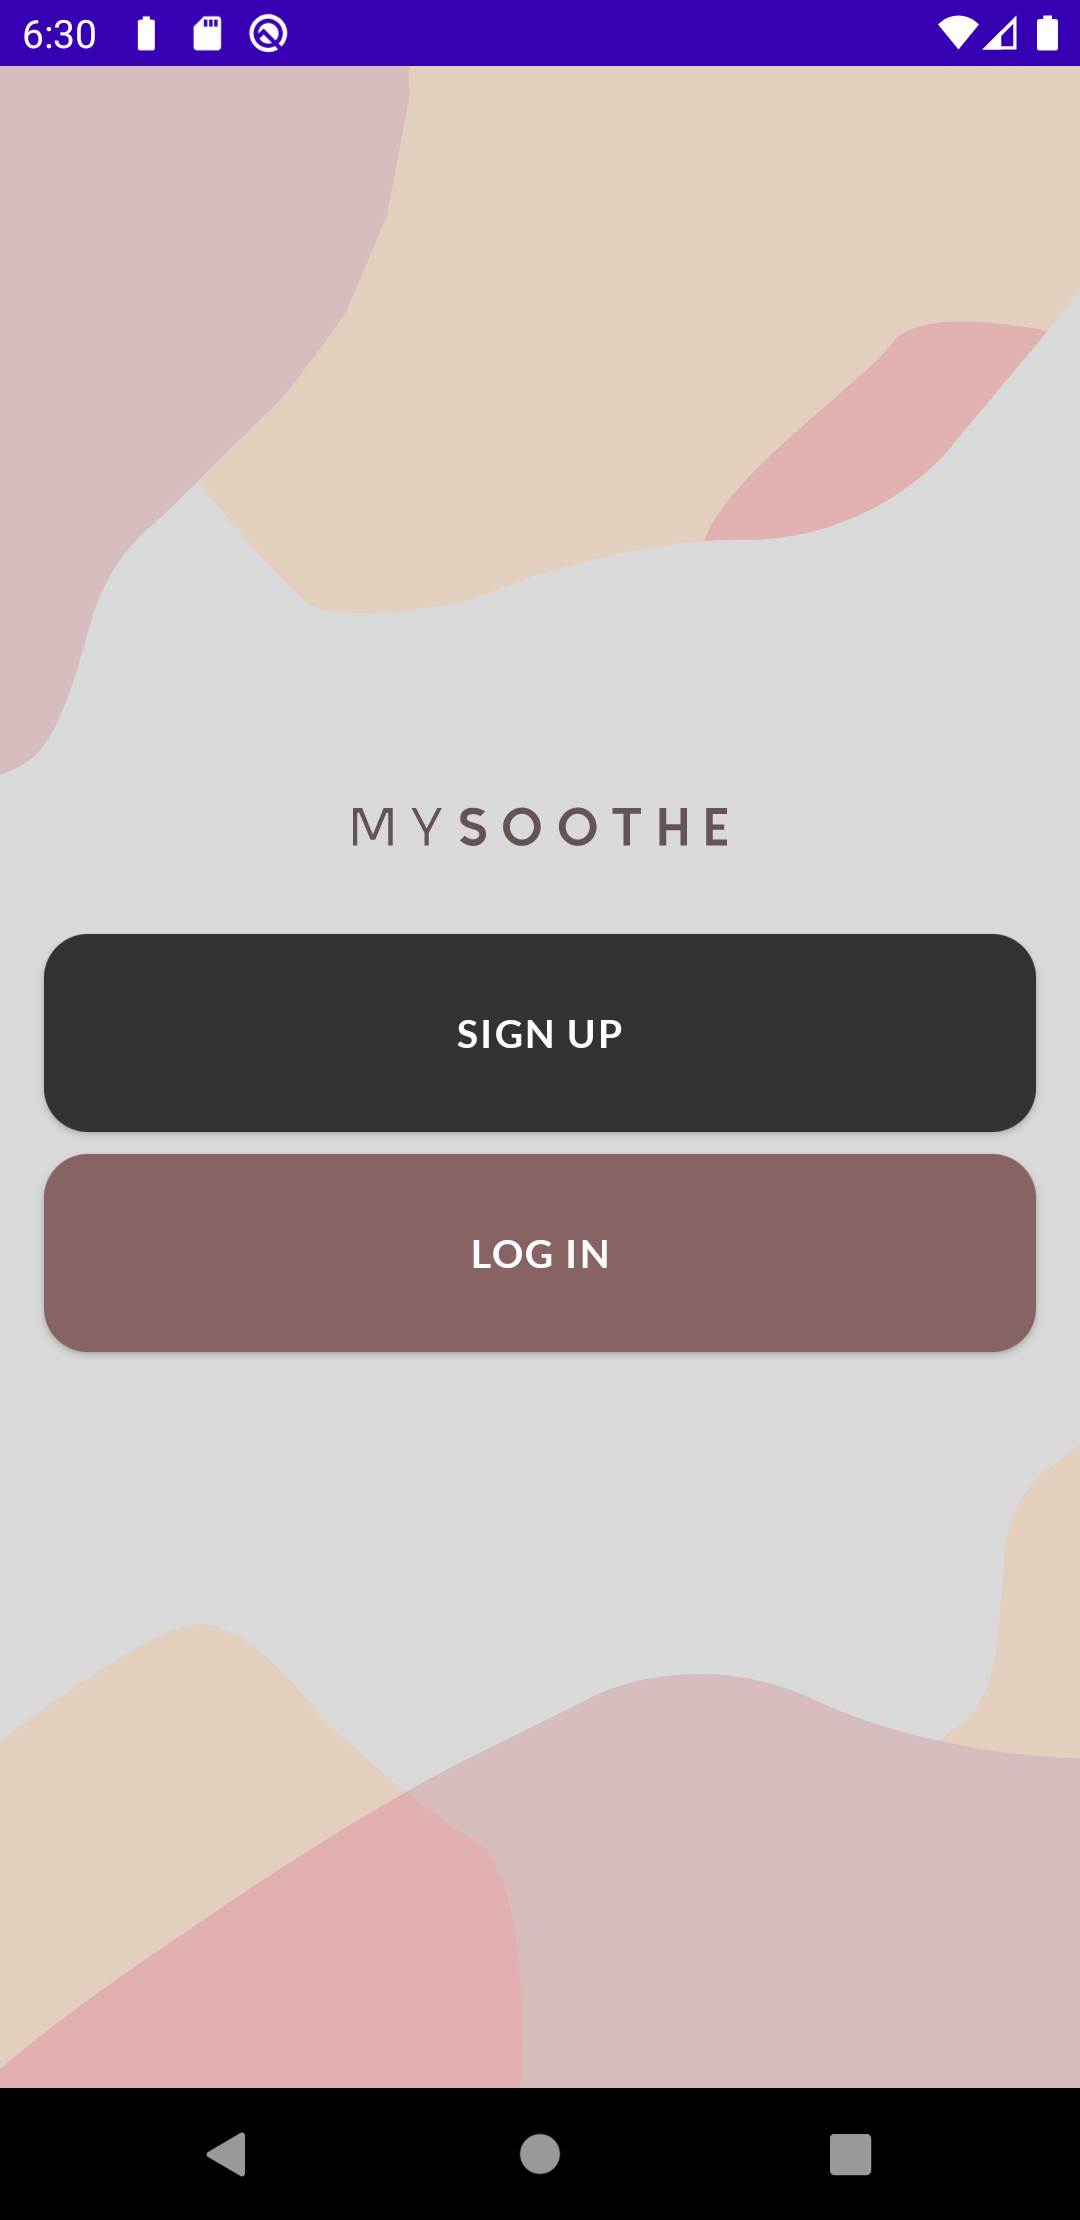
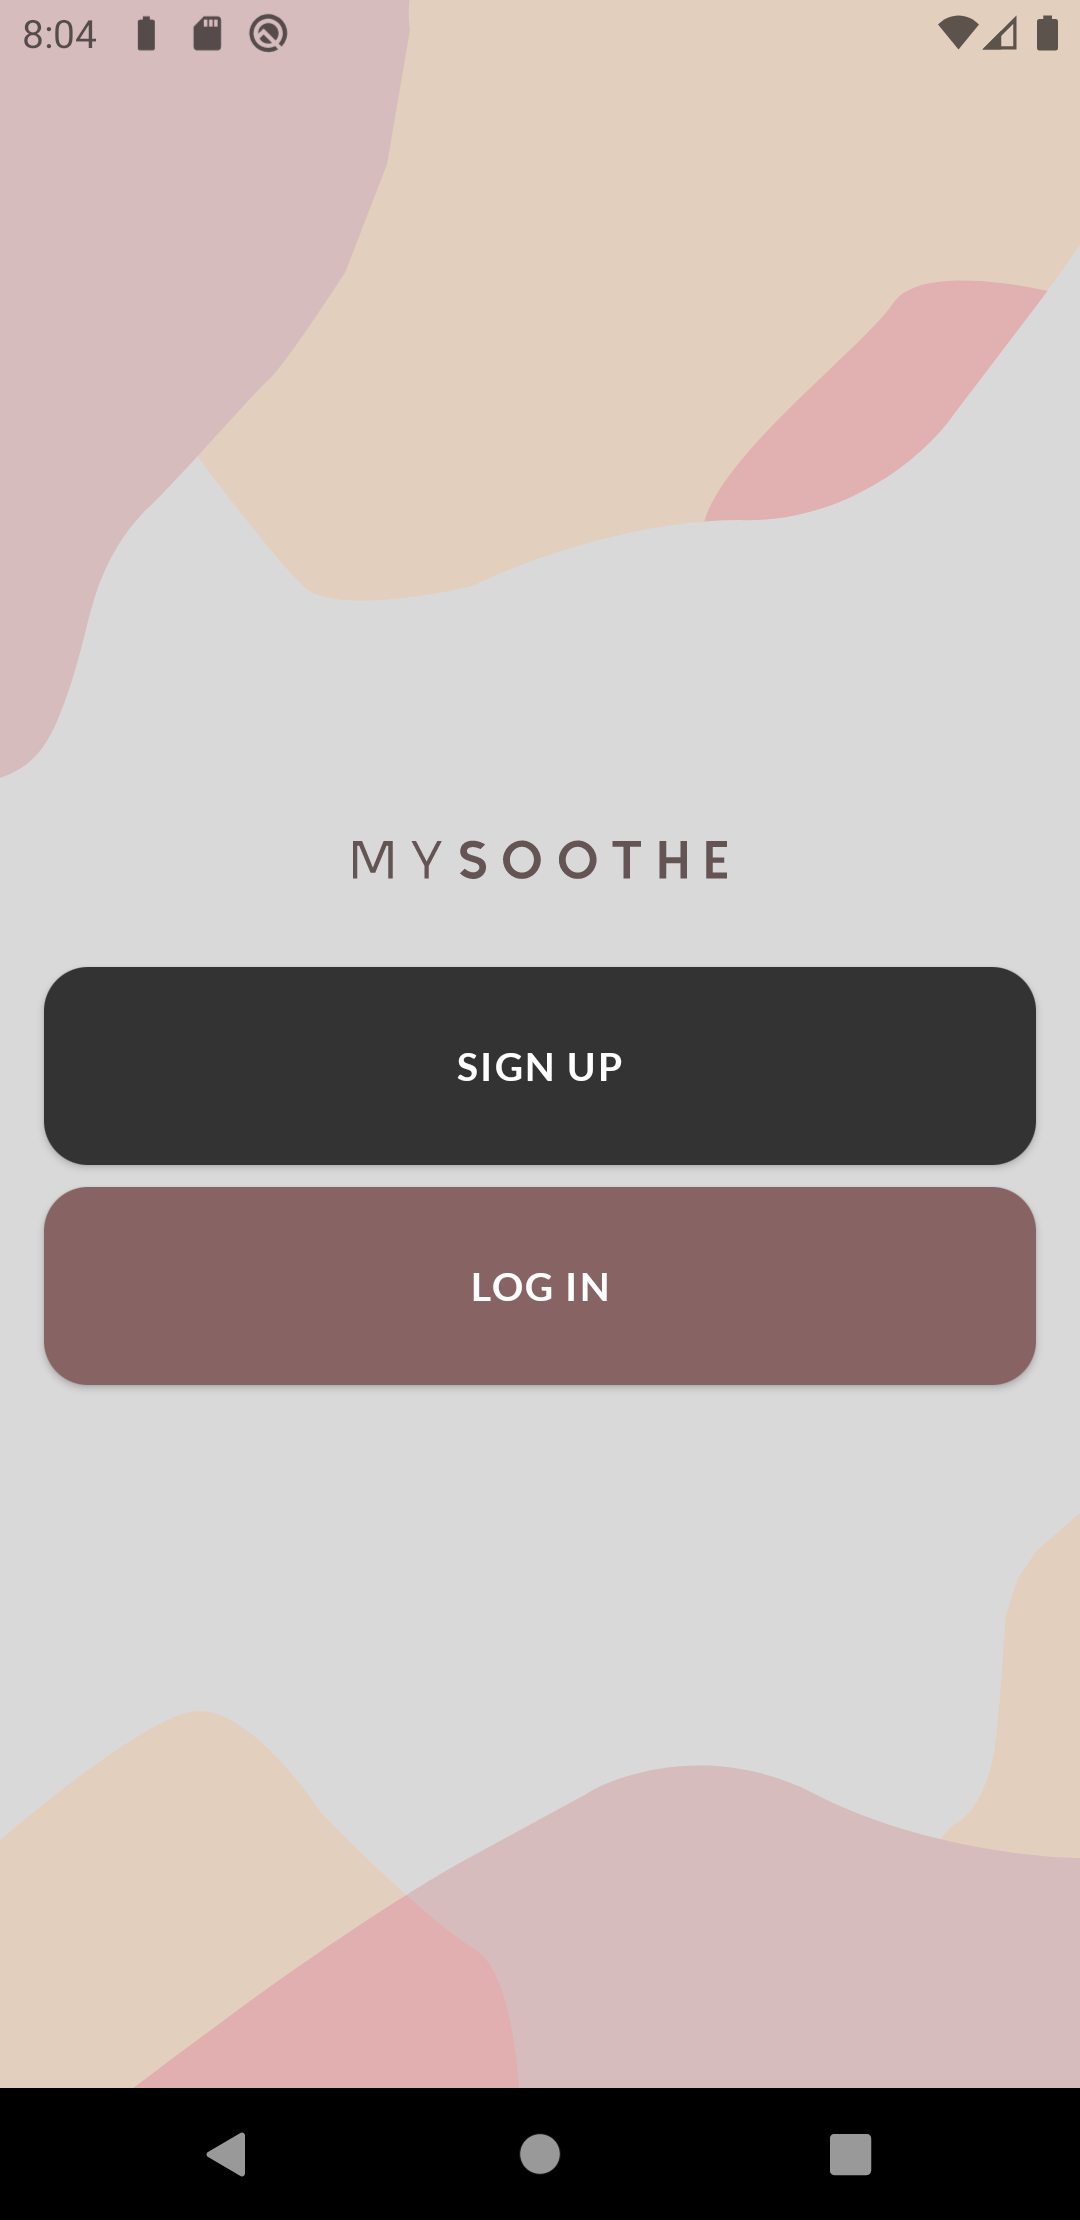
Challenge #3

diff --git a/app/src/main/java/com/example/androiddevchallenge/MainActivity.kt b/app/src/main/java/com/example/androiddevchallenge/MainActivity.kt
@@ -24,12 +24,20 @@ import androidx.compose.material.Text
 import androidx.compose.runtime.Composable
 import androidx.compose.ui.graphics.Color
 import androidx.compose.ui.tooling.preview.Preview
+import androidx.core.view.WindowCompat
 import androidx.navigation.compose.rememberNavController
 import com.example.androiddevchallenge.ui.theme.MyTheme
 
 class MainActivity : AppCompatActivity() {
     override fun onCreate(savedInstanceState: Bundle?) {
         super.onCreate(savedInstanceState)
+        WindowCompat
+            .setDecorFitsSystemWindows(
+                window.apply {
+                    statusBarColor = getColor(android.R.color.transparent)
+                },
+                false
+            )
         setContent {
             val navController = rememberNavController()
             Surface(color = Color.Black) {

diff --git a/app/src/main/java/com/example/androiddevchallenge/screens/home/Home.kt b/app/src/main/java/com/example/androiddevchallenge/screens/home/Home.kt
@@ -106,7 +106,7 @@ fun search() {
     TextField(
         modifier = Modifier
             .fillMaxWidth()
-            .padding(16.dp, 28.dp, 16.dp, 0.dp)
+            .padding(16.dp, 56.dp, 16.dp, 0.dp)
             .height(56.dp),
         value = text,
         leadingIcon = {
